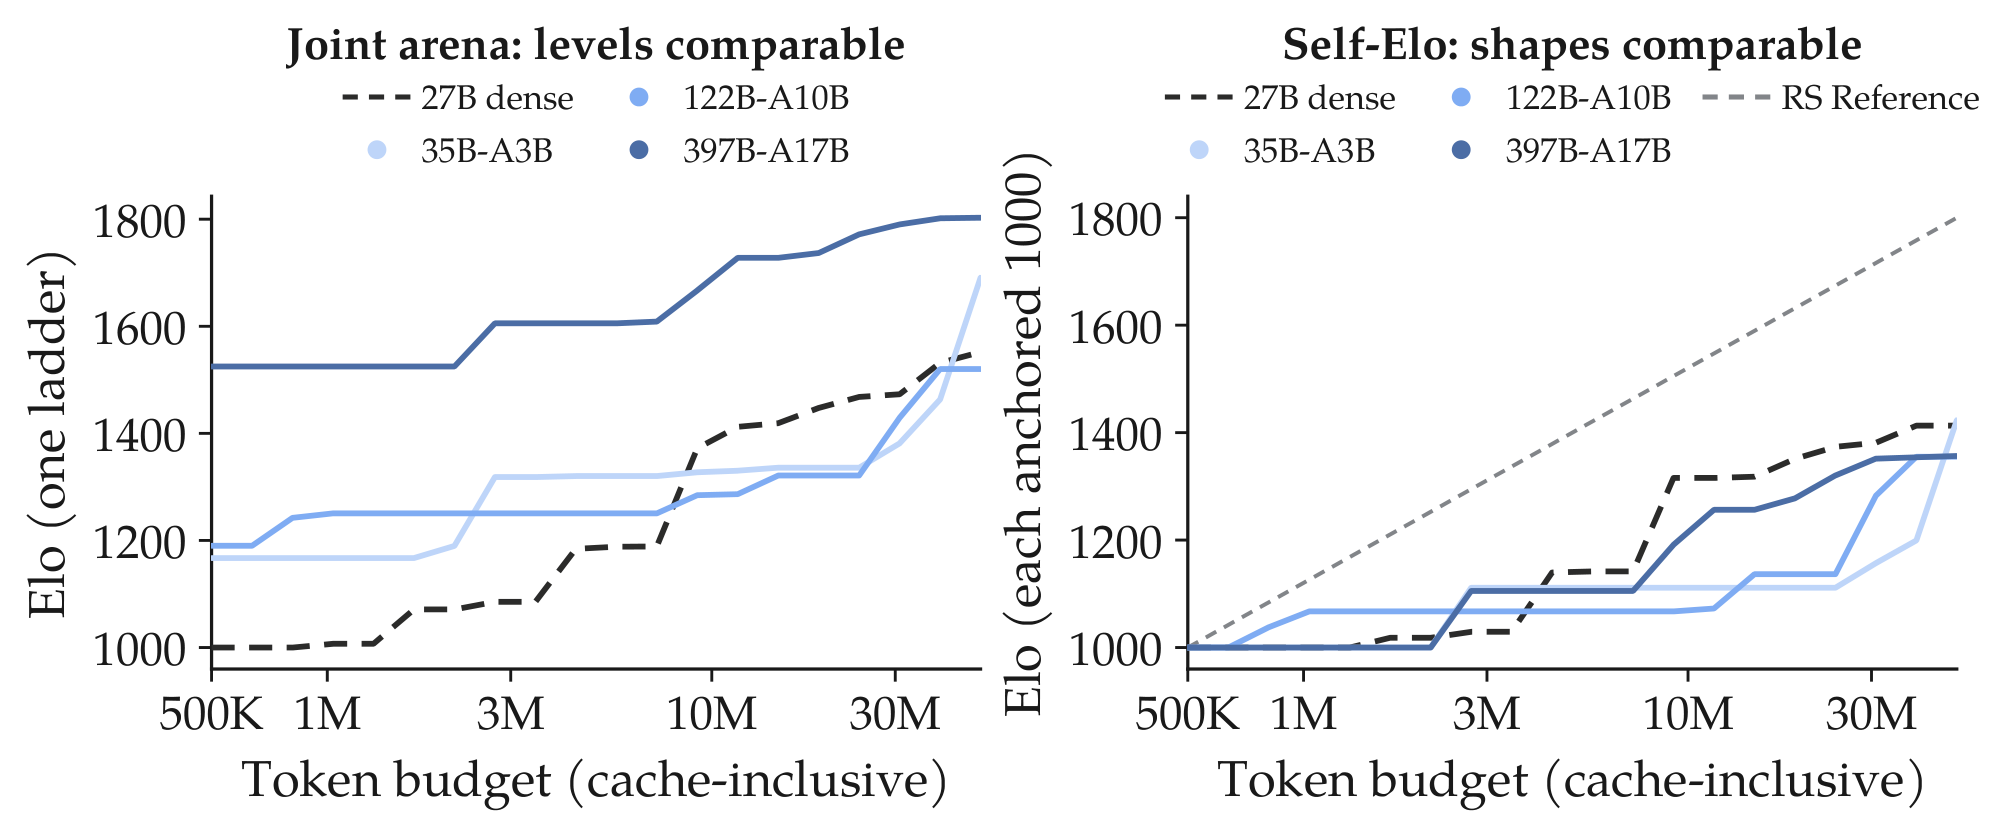
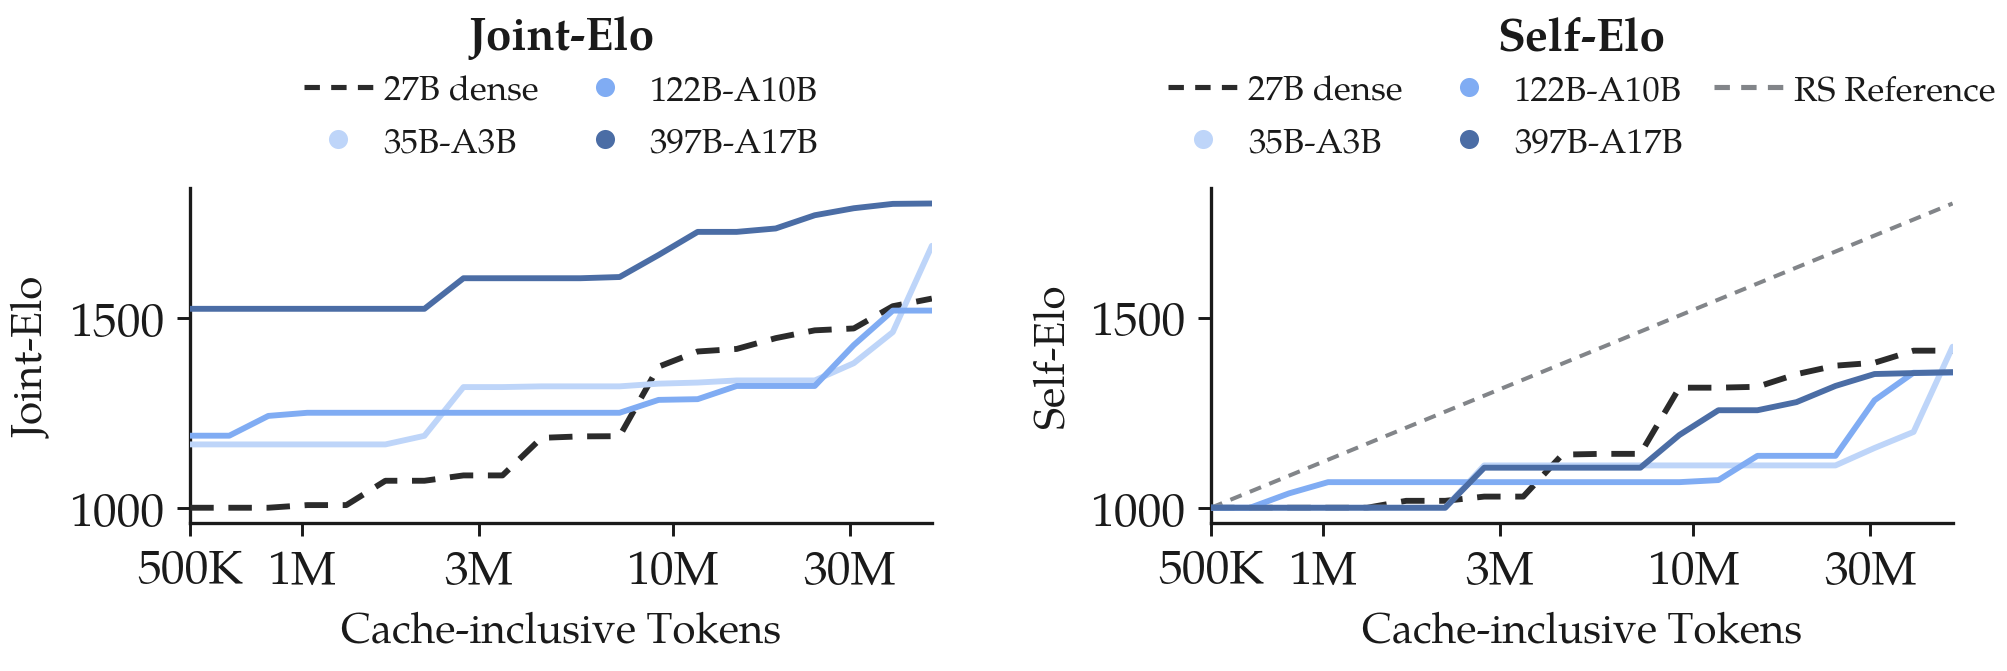
Align model-size carousel figure

diff --git a/static/css/style.css b/static/css/style.css
@@ -42,7 +42,7 @@ figcaption{font-size:.92rem;color:var(--muted);margin-top:10px;line-height:1.5}
 .carousel-stage{display:grid}
 .carousel-slide{grid-area:1/1;margin:0;opacity:0;visibility:hidden;pointer-events:none;transition:opacity .35s ease}
 .carousel-slide.is-active{opacity:1;visibility:visible;pointer-events:auto}
-.carousel-media{width:100%;aspect-ratio:2007/837;display:grid;place-items:center;background:#fff;overflow:hidden}
+.carousel-media{width:100%;aspect-ratio:2007/671;display:grid;place-items:center;background:#fff;overflow:hidden}
 .carousel-media img{width:100%;height:100%;object-fit:contain}
 .carousel-slide figcaption{min-height:4.5em}
 .carousel-controls{display:flex;align-items:center;justify-content:center;gap:16px;margin-top:10px}
